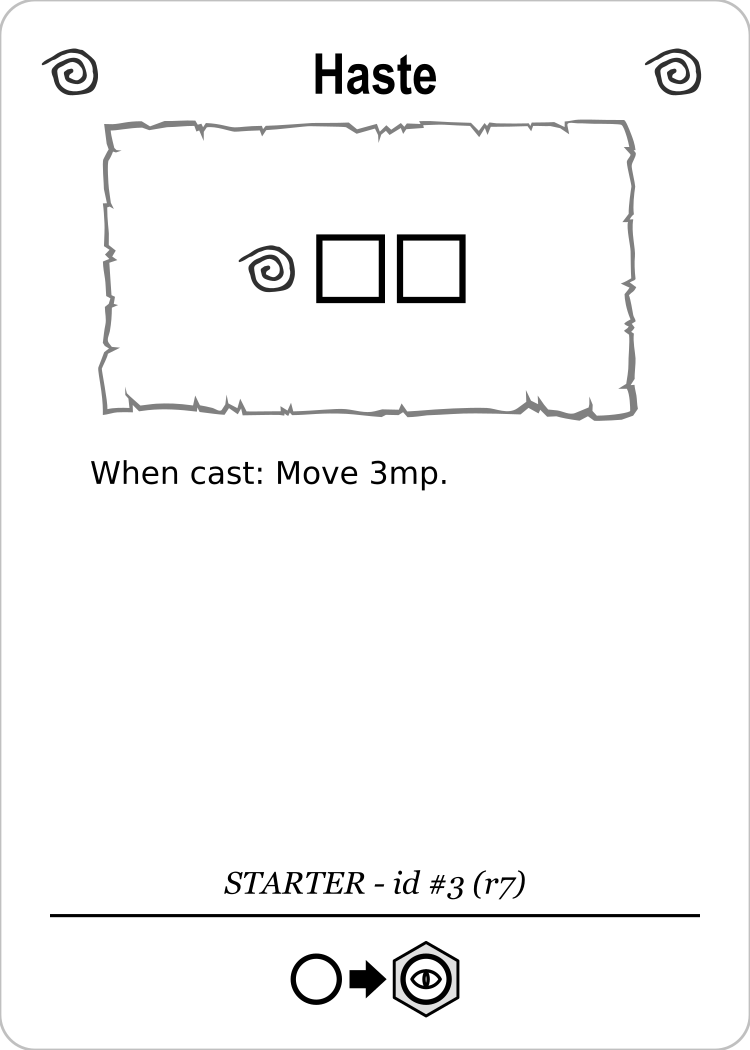
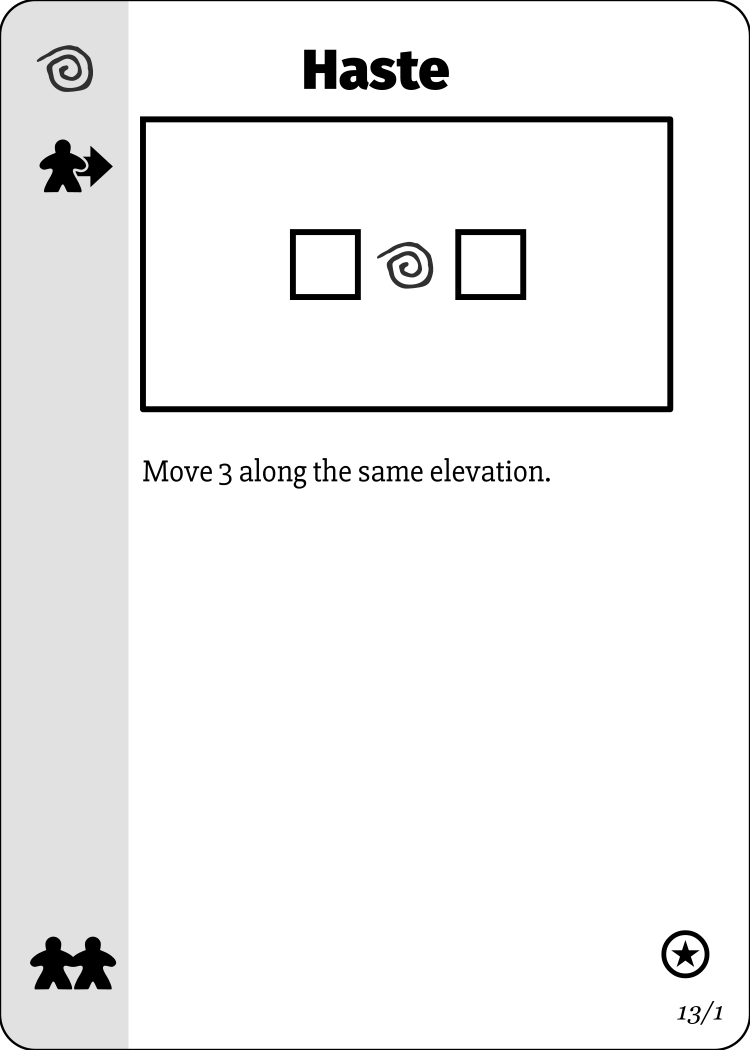
Update readme images with new card images

diff --git a/README.md b/README.md
@@ -2,7 +2,7 @@
 
 ## Woven is a tabletop game of tactical magecraft
 
-### Cast spells by making patterns found on Spell Cards
+### Prepare spells by making patterns found on Spell Cards
 
 <p align="center">
 <a href="img/readme/spell1.png"><img src="img/readme/spell1.png" height="200" /></a>
@@ -14,7 +14,7 @@
 
 <p align="center"><a href="img/readme/tapestry.png"><img src="img/readme/tapestry.png" height="300"/></a></p>
 
-### Finish the spellcast by adding mana Threads that complete the pattern
+### Complete the spellcast by adding mana Threads that complete the pattern
 
 <p align="center">
 <a href="img/readme/spell1.png"><img src="img/readme/spell1.png" height="200" /></a>
@@ -66,27 +66,7 @@
 
 <p align="center"><a href="img/readme/spell4.png"><img src="img/readme/spell4.png" height="200" /></a></p>
 
-### But your mana is limited, and you must balance your need for Threads and Eyes
+### But your mana is limited, and you must balance your need for Threads (to cast spells) and Eyes (for influence on the map)
 
 <p align="center"><a href="img/readme/player-mana.png"><img src="img/readme/player-mana.png" height="200" /></a></p>
-
-### Each spell card also has a set of alternate actions
-
-<p align="center"><a href="img/readme/actions.png"><img src="img/readme/actions.png" height="150" /></a></p>
-
-### These actions allow you to move your frail body on the map...
-
-<p align="center"><a href="img/readme/action-move.png"><img src="img/readme/action-move.png" height="100" /></a></p>
-
-### ...or place a new Eye on the map
-
-<p align="center"><a href="img/readme/action-eye.png"><img src="img/readme/action-eye.png" height="100" /></a></p>
-
-### ...or recover a Thread back into your mana pool
-
-<p align="center"><a href="img/readme/action-thread.png"><img src="img/readme/action-thread.png" height="100" /></a></p>
-
-### ...or add a new card to your Tapestry
-
-<p align="center"><a href="img/readme/action-tapestry.png"><img src="img/readme/action-tapestry.png" height="100" /></a></p>
 
